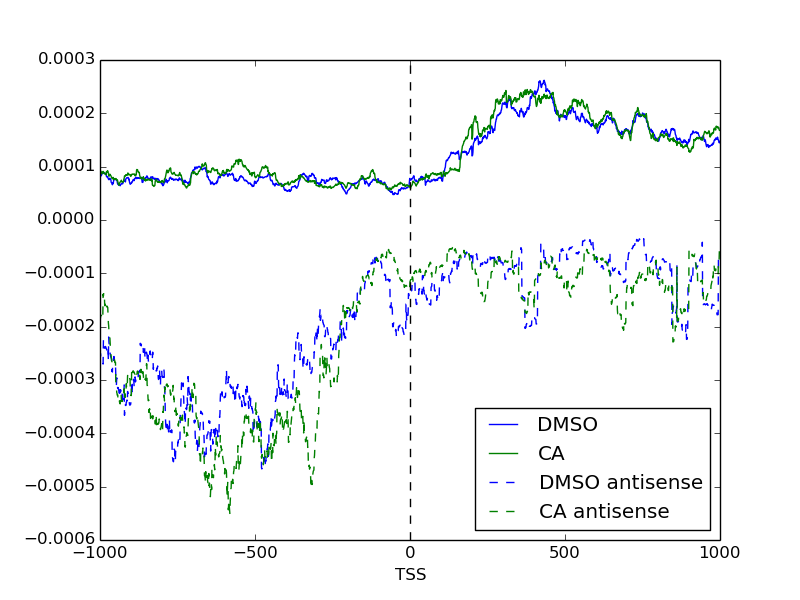
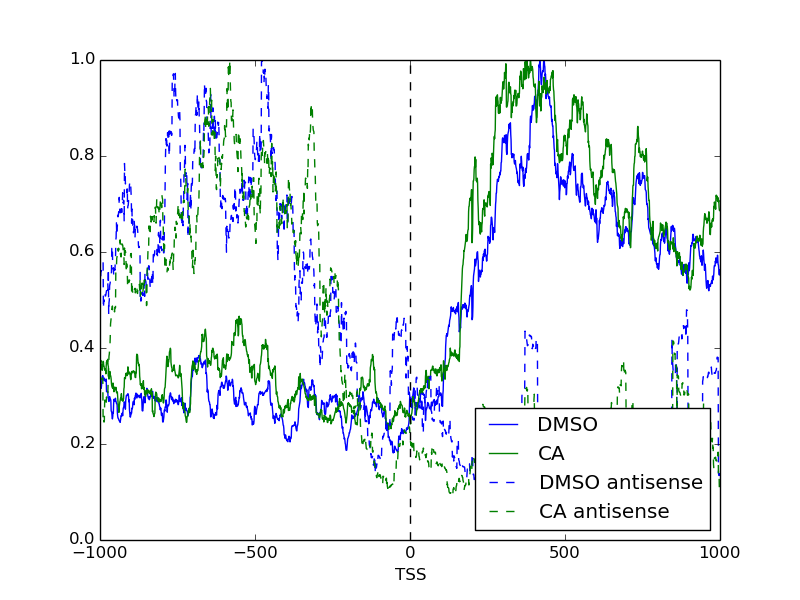
updates

diff --git a/src/metagene_TSS.py b/src/metagene_TSS.py
@@ -127,27 +127,27 @@ def run(file1,file2,file3):
     
     for i in range(window*2):
         DMSOarray[i] = DMSOarray[i]/DMSOmax
-        DMSOantiarray[i] = DMSOantiarray[i]/DMSOantimax
+        DMSOantiarray[i] = -DMSOantiarray[i]/DMSOantimax
         CAarray[i] = CAarray[i]/CAmax
-        CAantiarray[i] = CAantiarray[i]/CAantimax
+        CAantiarray[i] = -CAantiarray[i]/CAantimax
         
             
     F = plt.figure()
     x1 = np.arange(-1000,1000,1)
     plt.plot(x1,DMSOarray[window-1000:window+1000],color='b')
     plt.plot(x1,CAarray[window-1000:window+1000],color='g')
-    plt.plot(x1,DMSOantiarray[window-1000:window+1000],color='b',ls='dashed')
-    plt.plot(x1,CAantiarray[window-1000:window+1000],color='g',ls='dashed')
+    plt.plot(x1,DMSOantiarray[window-1000:window+1000],color='r')
+    plt.plot(x1,CAantiarray[window-1000:window+1000],color='y')
     plt.xlabel('TSS')
     plt.axvline(x=0.,color='k',ls='dashed')
-    plt.legend(['DMSO', 'CA', 'DMSO antisense','CA antisense'], loc='lower right')
+    plt.legend(['DMSO', 'CA', 'DMSO antisense','CA antisense'], loc='lower left')
     plt.savefig(figout + '/metagene_TSS.png')
     
     F1 = plt.figure()
     x2 = np.arange(-window,window,1)
     plt.plot(x2,CAarray/DMSOarray)
     plt.plot(x2,DMSOantiarray/CAantiarray)
-    plt.legend(['CA/DMSO','DMSO/CA antisense'], loc='upper left')
+    plt.legend(['CA/DMSO','DMSO/CA antisense'], loc='upper left',fontsize=8)
     plt.xlabel('TSS')
     plt.axvline(x=0.,color='k',ls='dashed')
     plt.axhline(y=1.,color='k',ls='solid')
